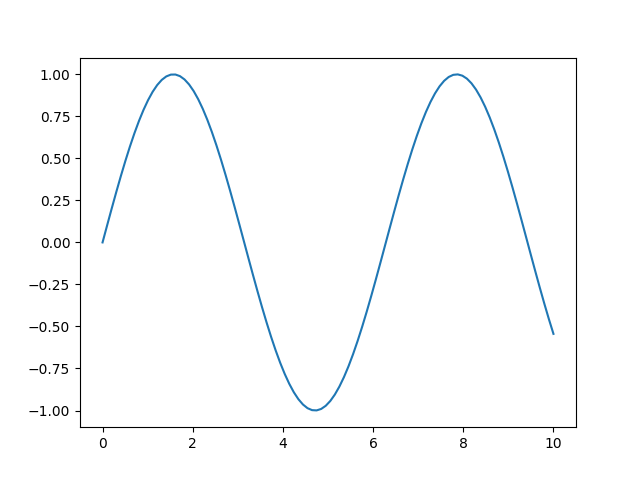
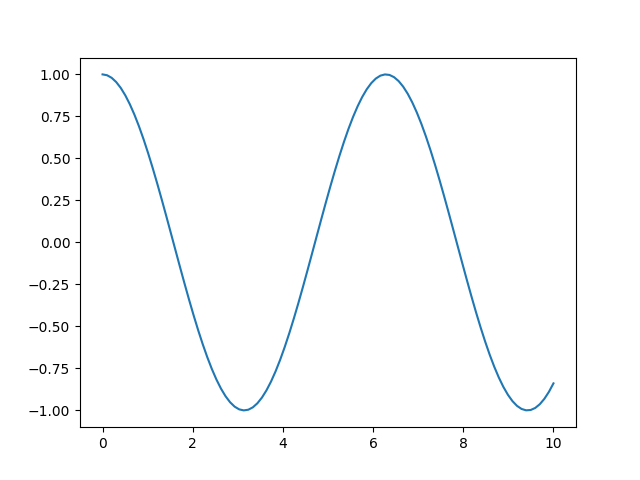
COdigo y grafica actualizados

diff --git a/seno.py b/seno.py
@@ -2,5 +2,5 @@ import numpy as np
 import matplotlib.pyplot as plt
 
 t = np.linspace(0,10,100)
-plt.plot(t,np.sin(t))
+plt.plot(t,np.cos(t))
 plt.savefig('seno.png')
